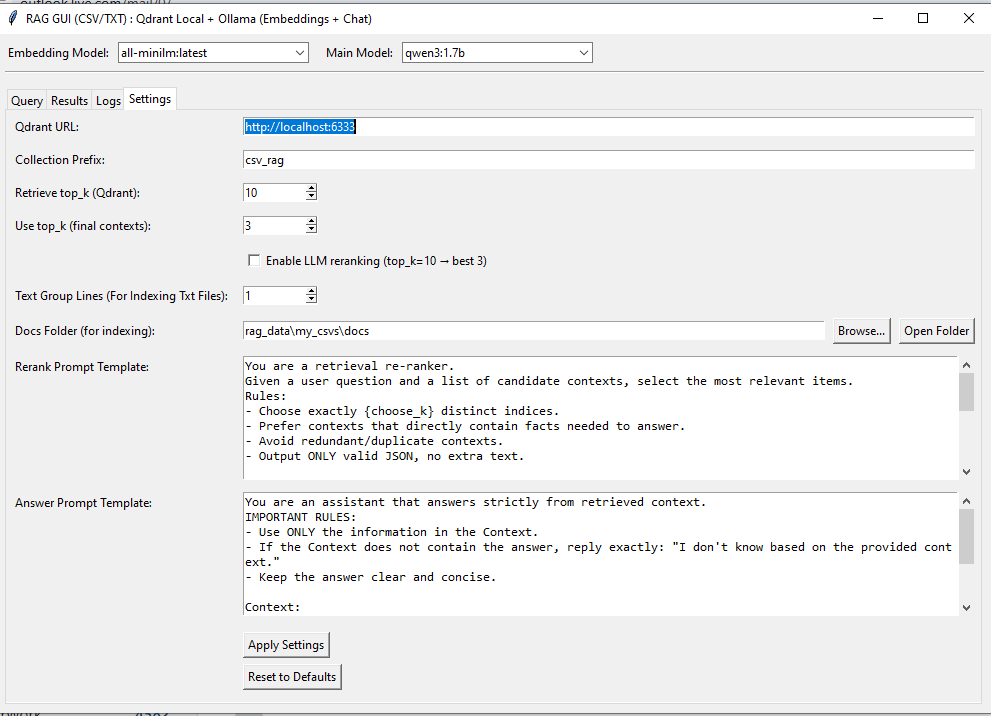
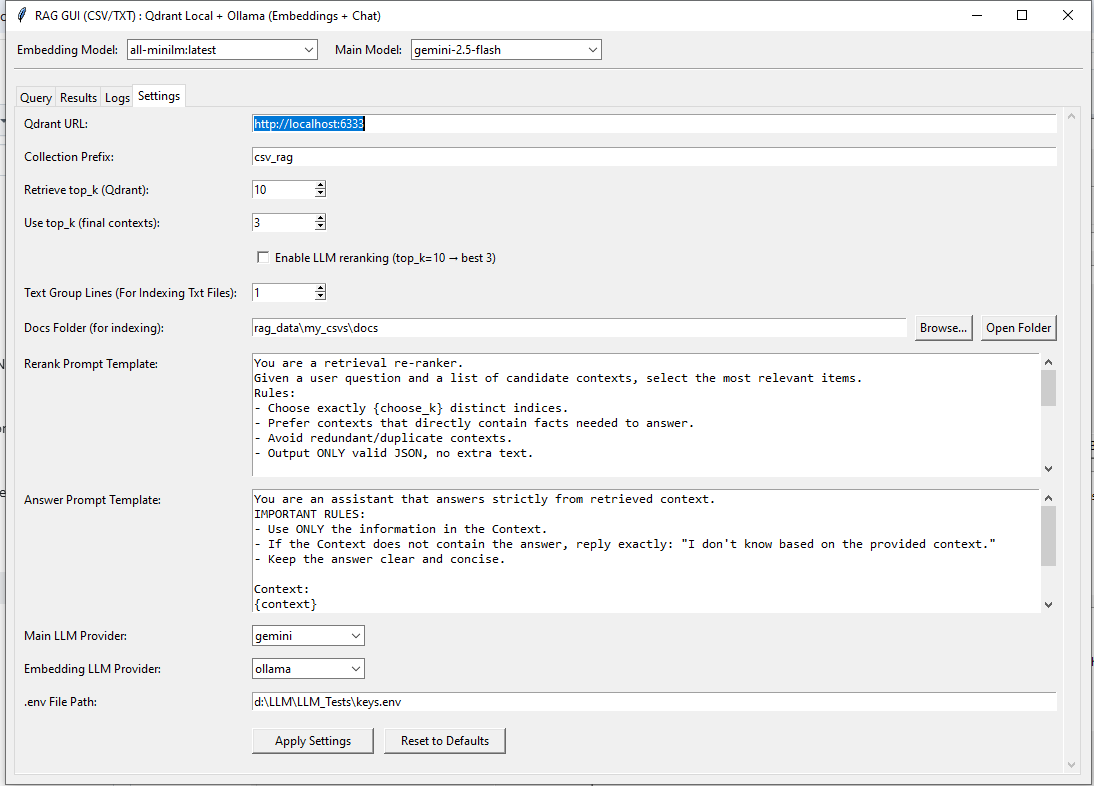
change readme

diff --git a/README.md b/README.md
@@ -31,6 +31,8 @@ Open browser to (Swagger): http://localhost:8000/docs
 - Support CSV + TXT files in the same folder for ingestion
 - Use Qdrant for vector storage and retrieval
 - Enable Change Prompt and Prompt templates for Reranking and Answering from settings
+- Use Gemeni / OpenAI / Ollama for embeddings + chat
+- Gemeni and OpenAI need API keys in keys.env file
   
 ##### Endpoints
 - GET http://localhost:8000/docs
@@ -74,6 +76,8 @@ http://localhost:6333/dashboard#/collections
 - Support CSV + TXT files in the same folder for ingestion
 - Use Qdrant for vector storage and retrieval
 - Enable Change Prompt and Prompt templates for Reranking and Answering from settings
+- Use Gemeni / OpenAI / Ollama for embeddings + chat
+- Gemeni and OpenAI need API keys in keys.env file
 
 ![Main Window](RAG/RAG_GUI/Main.PNG)
 
